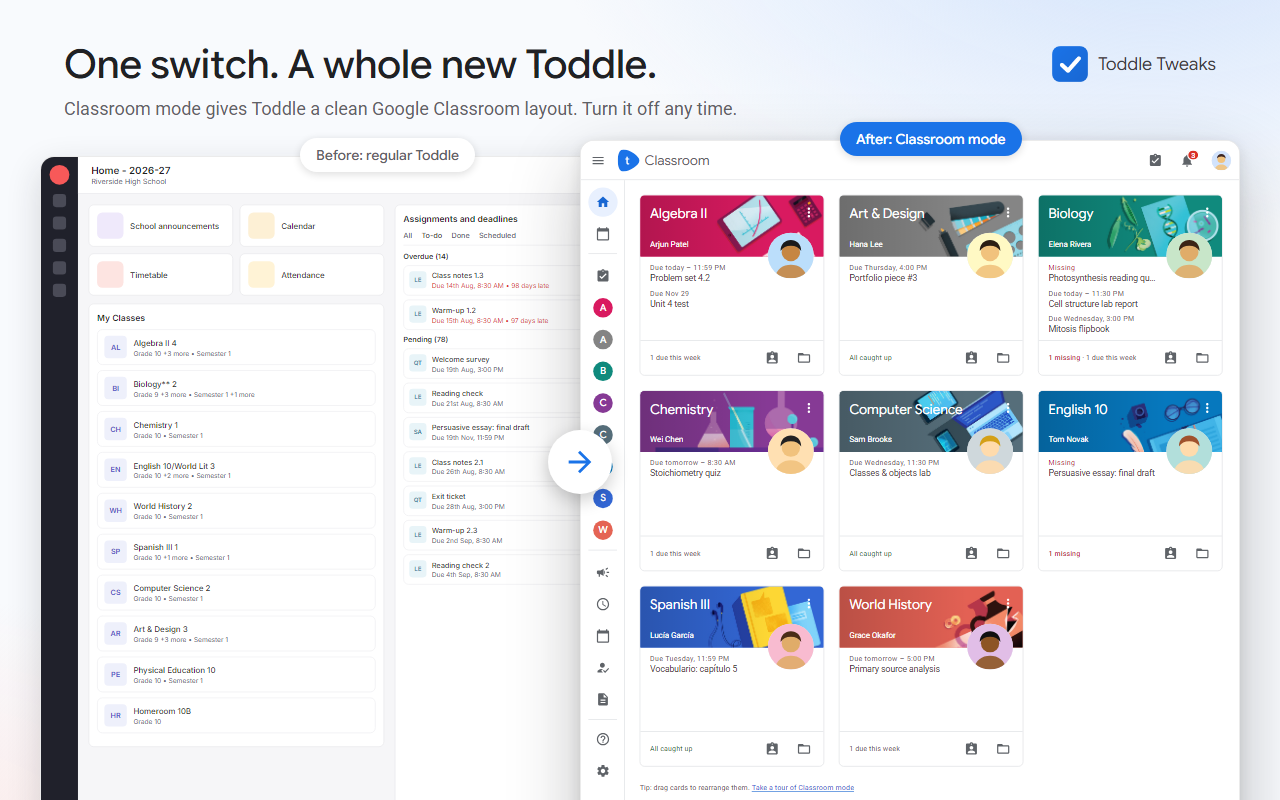
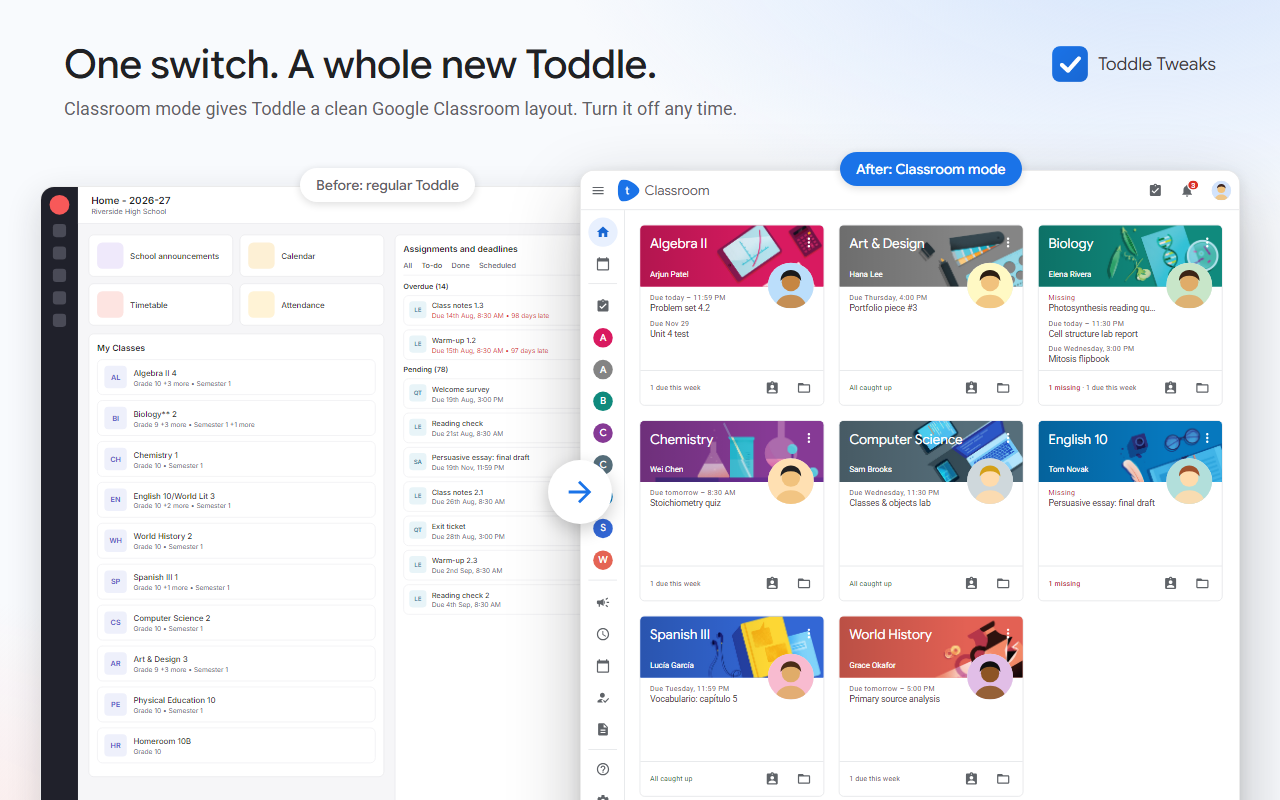
Store images: more space under the before/after caption

diff --git a/store/promo/compare.html b/store/promo/compare.html
@@ -21,9 +21,9 @@
 
     /* Two floating screens, no browser frame: regular Toddle behind on the left, Classroom mode in front. */
     .shot { position: absolute; border-radius: 14px; overflow: hidden; background: #fff; border: 1px solid rgba(0,0,0,.08); }
-    .shot.before { left: 40px; top: 156px; width: 660px; height: 700px; box-shadow: 0 12px 34px rgba(32,33,36,.16); }
+    .shot.before { left: 40px; top: 186px; width: 660px; height: 700px; box-shadow: 0 12px 34px rgba(32,33,36,.16); }
     .shot.before .t { width: 1000px; height: 1060px; transform: scale(.66); transform-origin: 0 0; }
-    .shot.after { left: 580px; top: 140px; width: 660px; height: 720px; box-shadow: 0 28px 70px rgba(32,33,36,.28), 0 4px 14px rgba(32,33,36,.12); }
+    .shot.after { left: 580px; top: 170px; width: 660px; height: 720px; box-shadow: 0 28px 70px rgba(32,33,36,.28), 0 4px 14px rgba(32,33,36,.12); }
     .shot.after iframe { border: 0; width: 1080px; height: 1180px; transform: scale(.611); /* 3 class cards across, icon-rail drawer */ transform-origin: 0 0; display: block; }
     /* ----- simplified regular Toddle (made-up data) ----- */
     .t { position: absolute; left: 0; top: 0; display: flex; font-family: Inter, Roboto, Arial, sans-serif; background: #f6f6f8; color: #1f1f1f; }
@@ -53,9 +53,9 @@
 
     /* ----- labels + arrow ----- */
     .lab { position: absolute; padding: 8px 16px; border-radius: 18px; font: 500 14px "Google Sans Flex", Roboto; box-shadow: 0 2px 8px rgba(0,0,0,.14); z-index: 3; }
-    .lab.b { left: 300px; top: 138px; background: #fff; color: #5f6368; }
-    .lab.a { left: 840px; top: 122px; background: #1a73e8; color: #fff; }
-    .arrow { position: absolute; left: 548px; top: 430px; width: 64px; height: 64px; border-radius: 50%; background: #fff; z-index: 4;
+    .lab.b { left: 300px; top: 168px; background: #fff; color: #5f6368; }
+    .lab.a { left: 840px; top: 152px; background: #1a73e8; color: #fff; }
+    .arrow { position: absolute; left: 548px; top: 460px; width: 64px; height: 64px; border-radius: 50%; background: #fff; z-index: 4;
       box-shadow: 0 6px 18px rgba(0,0,0,.2); display: flex; align-items: center; justify-content: center; }
     .arrow svg { width: 34px; height: 34px; fill: #1a73e8; }
   </style>
